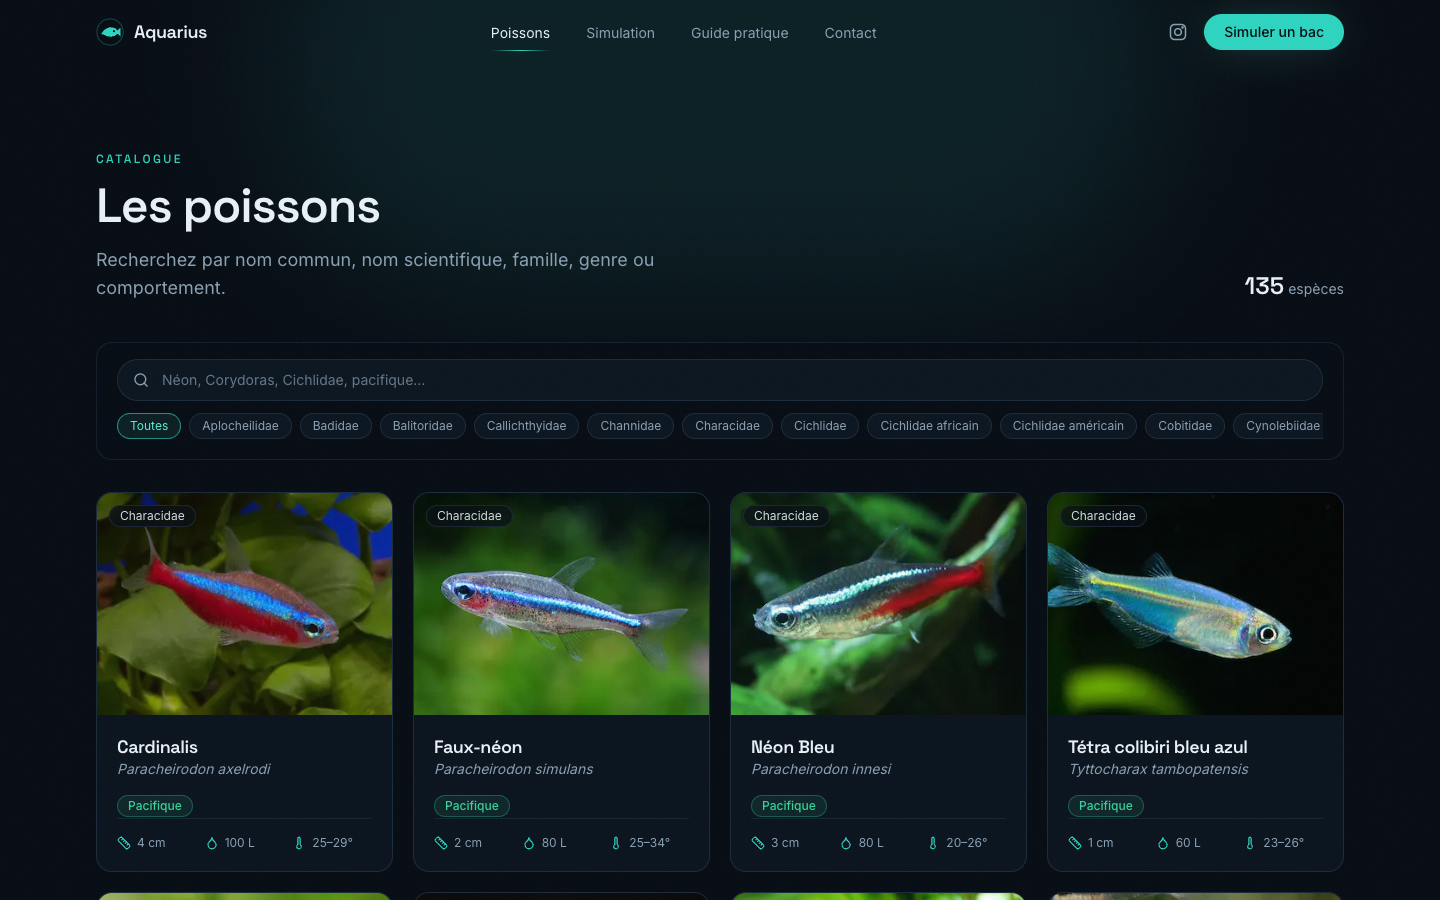
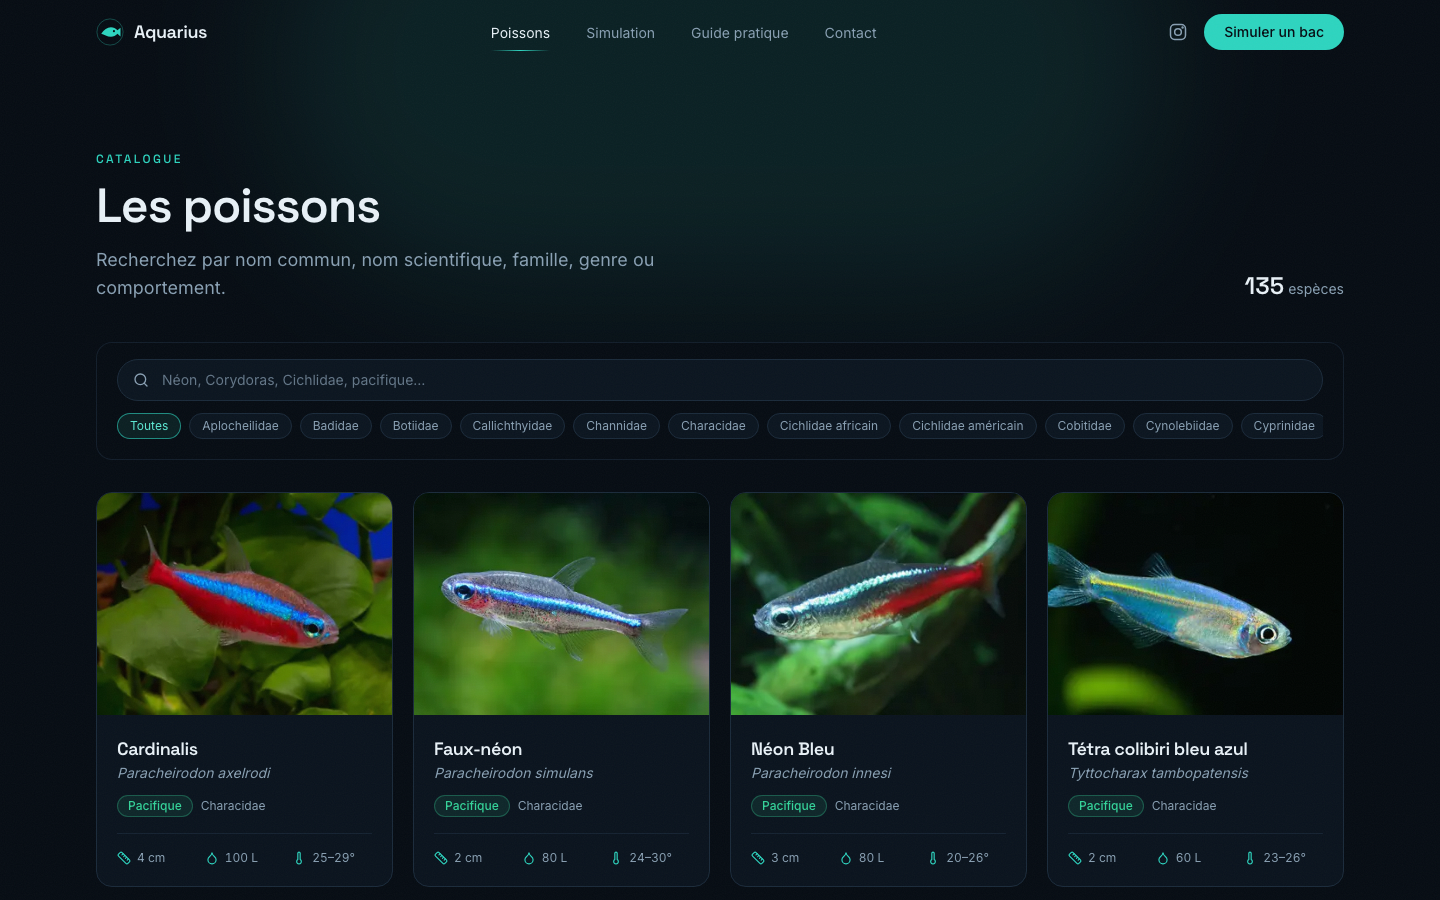
docs: add the design rules and refresh the screenshots

diff --git a/docs/design-rules.md b/docs/design-rules.md
@@ -1,0 +1,39 @@
+# Design rules
+
+The front end keeps the identity of [ADR 0003](adr/0003-ui-redesign-tailwind.md): dark theme, one teal accent,
+Space Grotesk for headings and Inter for text. These rules came out of a design review (October 2026) and apply
+to every new page or component.
+
+## Tokens and shapes
+- **One accent**, `accent` (`#2DD4BF`), for actions, links and highlights. No gradient text, no glow
+  shadows, no blurred colour blobs behind content.
+- **Corner radius:** containers and images `rounded-2xl`, form controls and small tiles `rounded-xl`,
+  buttons and chips `rounded-full`.
+- **Numbers** that are compared (stats, ranges, quantities) use `tabular-nums`.
+
+## Text
+- Headings wrap with `text-wrap: balance`, paragraphs with `text-wrap: pretty` (set in `globals.css`).
+- French punctuation: a non-breaking space before `?`, `!` and `:` in headings and short labels
+  (`&nbsp;` in JSX, ` ` in strings) so they never start a line.
+- No em dash in visible text. Missing values read "Non renseigné".
+- Form labels are in sentence case (`.label`): uppercase turned "pH" into "PH".
+- At most one small uppercase label (`.eyebrow`) every three sections of a page.
+
+## Actions
+- One label per intent: the simulator is always reached with **"Simuler un bac"** (`/simulation/starting`).
+- Destructive actions ask for confirmation ("Tout vider" → "Confirmer" / "Annuler").
+- Loading labels end with an ellipsis ("Envoi…").
+
+## Layout
+- The home hero holds four elements at most: eyebrow, headline (two lines on desktop), one sentence of
+  subtext, two buttons.
+- Use real visuals: fish photos or real screenshots of the app (`public/simulateur-apercu.webp`), never
+  mock-ups built from divs.
+- Grids are designed for phones too: two columns of fish cards and families below 640 px, and no empty
+  cell in the family mosaic at any width.
+- Labels go in the card body, not as pills over photos.
+
+## Accessibility
+- "Aller au contenu" skip link, `theme-color` matching the background, visible focus rings.
+- Status changes (verdict, contact form) are announced with `role="status"`.
+- Animations honour `prefers-reduced-motion` (`Reveal`, hero) and animate `transform` / `opacity` only.

diff --git a/CHANGELOG.md b/CHANGELOG.md
@@ -33,6 +33,14 @@ The format follows [Keep a Changelog](https://keepachangelog.com/en/1.1.0/).
 - `.env.example` for the front end; backend config driven by `AQUARIUS_DSN` / `AQUARIUS_EXCEL_FILE`.
 
 ### Changed
+- **Design review** ([rules](docs/design-rules.md)), keeping the dark theme and teal accent: the home hero fits
+  on two lines with one CTA label ("Simuler un bac") used everywhere, the "three steps" section shows a real
+  screenshot of the simulator instead of three numbered cards, glows, gradient text and extra uppercase labels
+  are gone, and corner radii follow one scale. Fish cards and the family mosaic use two columns on phones,
+  and the family label moved from the photo to the card text. Fish pages keep the gallery in view while
+  scrolling and show the scientific name once when there is no common name. Simulator result cards put the
+  risk of adding a species on its own line, and "Tout vider" asks for confirmation. Skip link, `theme-color`,
+  balanced headings and non-breaking spaces before French punctuation. README screenshots updated.
 - **Next.js 16 and React 19** ([ADR 0007](docs/adr/0007-nextjs-16-react-19.md)), with Turbopack for dev and
   build, Framer Motion 12, SWR 2.5, React Hook Form 7.89 and ESLint 9 (flat config, `npm run lint`). State copied
   from props or the URL through effects is now derived during render. The simulator is rendered in the browser
@@ -57,6 +65,8 @@ The format follows [Keep a Changelog](https://keepachangelog.com/en/1.1.0/).
 - Cypress, installed but without any test (its binary download was already disabled in CI).
 
 ### Fixed
+- Footer: the "Suivre" heading sat on the same line as the Instagram link.
+- Form labels were uppercased, which displayed "pH" as "PH"; the tank load read "0 / — points" without a volume.
 - Catalogue: typing a search while a family filter was active erased the first letter typed.
 - Simulator: the saved tank and water are read after the first render, which removes the hydration error
   (the whole page was re-rendered in the browser) when a tank had been saved; unreadable or blocked local

diff --git a/frontend/README.md b/frontend/README.md
@@ -1,4 +1,4 @@
 # Aquarius — front end
 
 Next.js 16 (App Router, React 19) application styled with Tailwind CSS (tokens in `tailwind.config.js`, shared
-classes in `app/globals.css`); reusable UI lives in `components/`. See the [root README](../README.md) for setup: `make dev` from the repository root.
+classes in `app/globals.css`); reusable UI lives in `components/`. Design rules: [docs/design-rules.md](../docs/design-rules.md). See the [root README](../README.md) for setup: `make dev` from the repository root.
